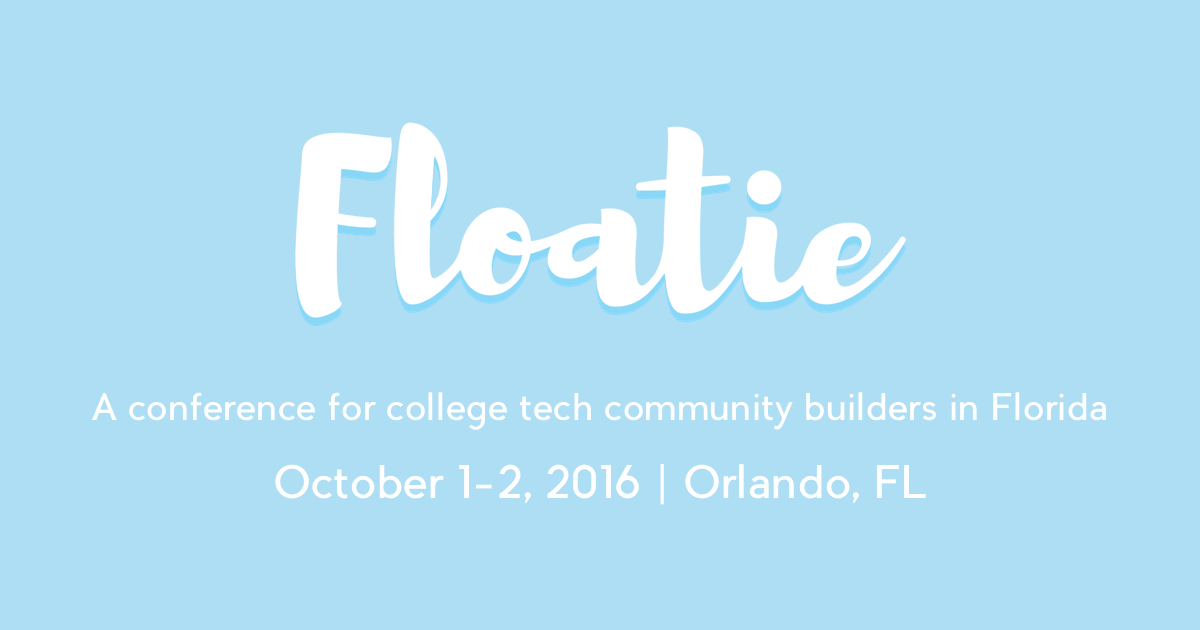
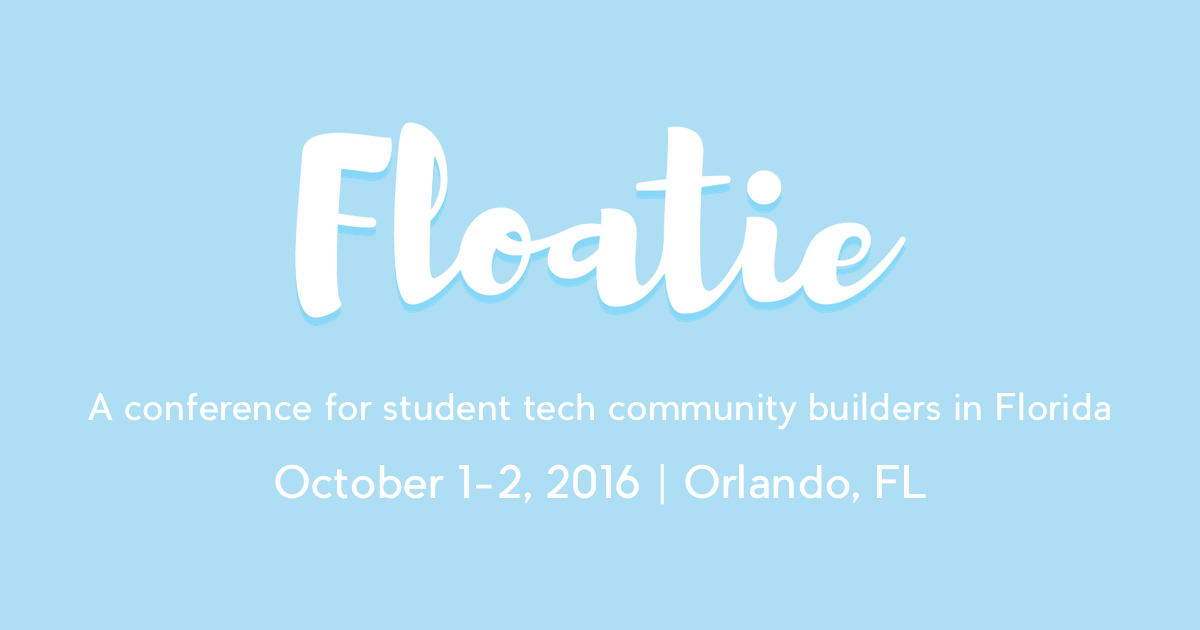
wording

Changed region(s): [[0.0617, 0.6032, 0.925, 0.6937]]

diff --git a/index.html b/index.html
@@ -3,7 +3,7 @@
 <head>
   <meta charset="UTF-8">
   <meta name="viewport" content="width=device-width, initial-scale=1">
-  <title>Floatie | A Conference for College Tech Community Builders in Florida</title>
+  <title>Floatie | A Conference for Student Tech Community Builders in Florida</title>
 
   <!-- Favicon and such -->
   <link rel="apple-touch-icon" sizes="57x57" href="/apple-icon-57x57.png">
@@ -44,7 +44,7 @@
         October 1-2, 2016 | Orlando, FL
       </p>
       <p class="description">
-        A conference for college tech community builders
+        A conference for Florida student tech community builders 
       </p>
     </div>
     <div class="floatie">
